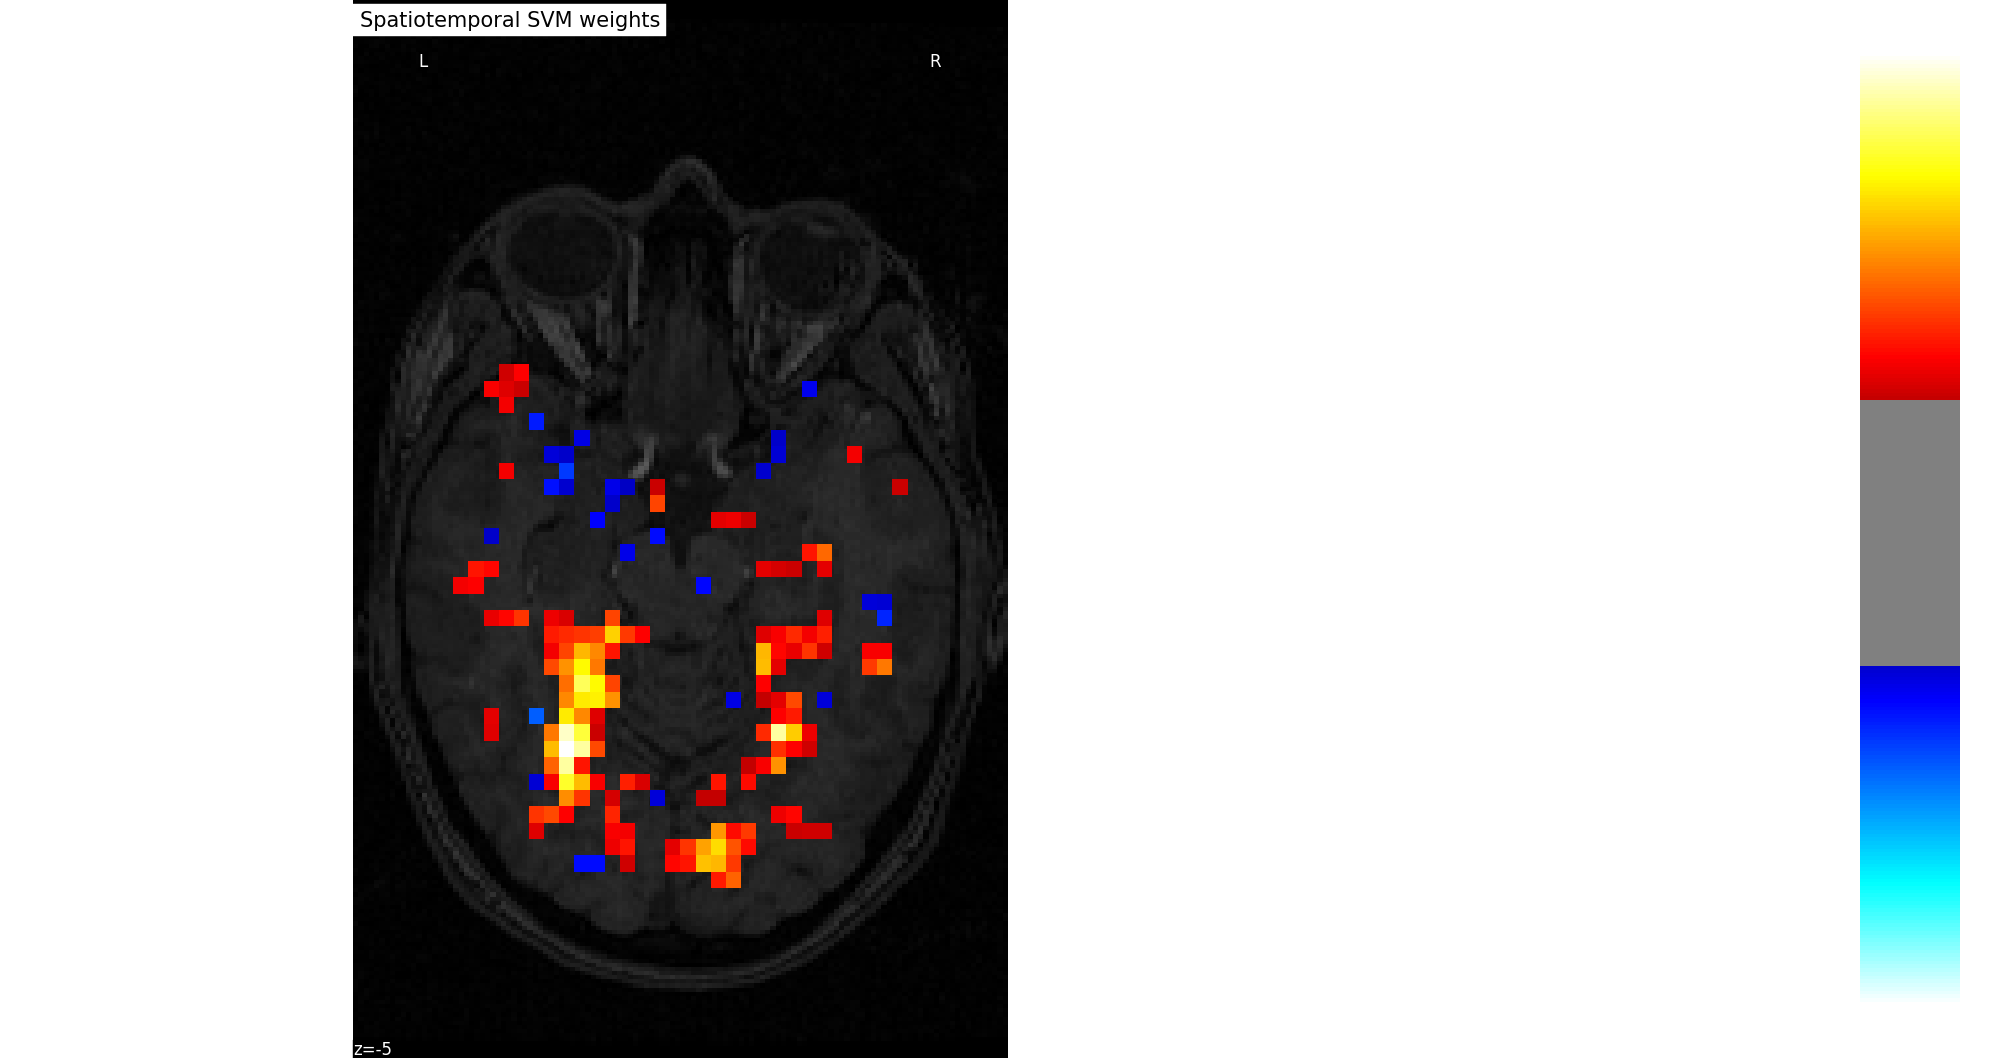
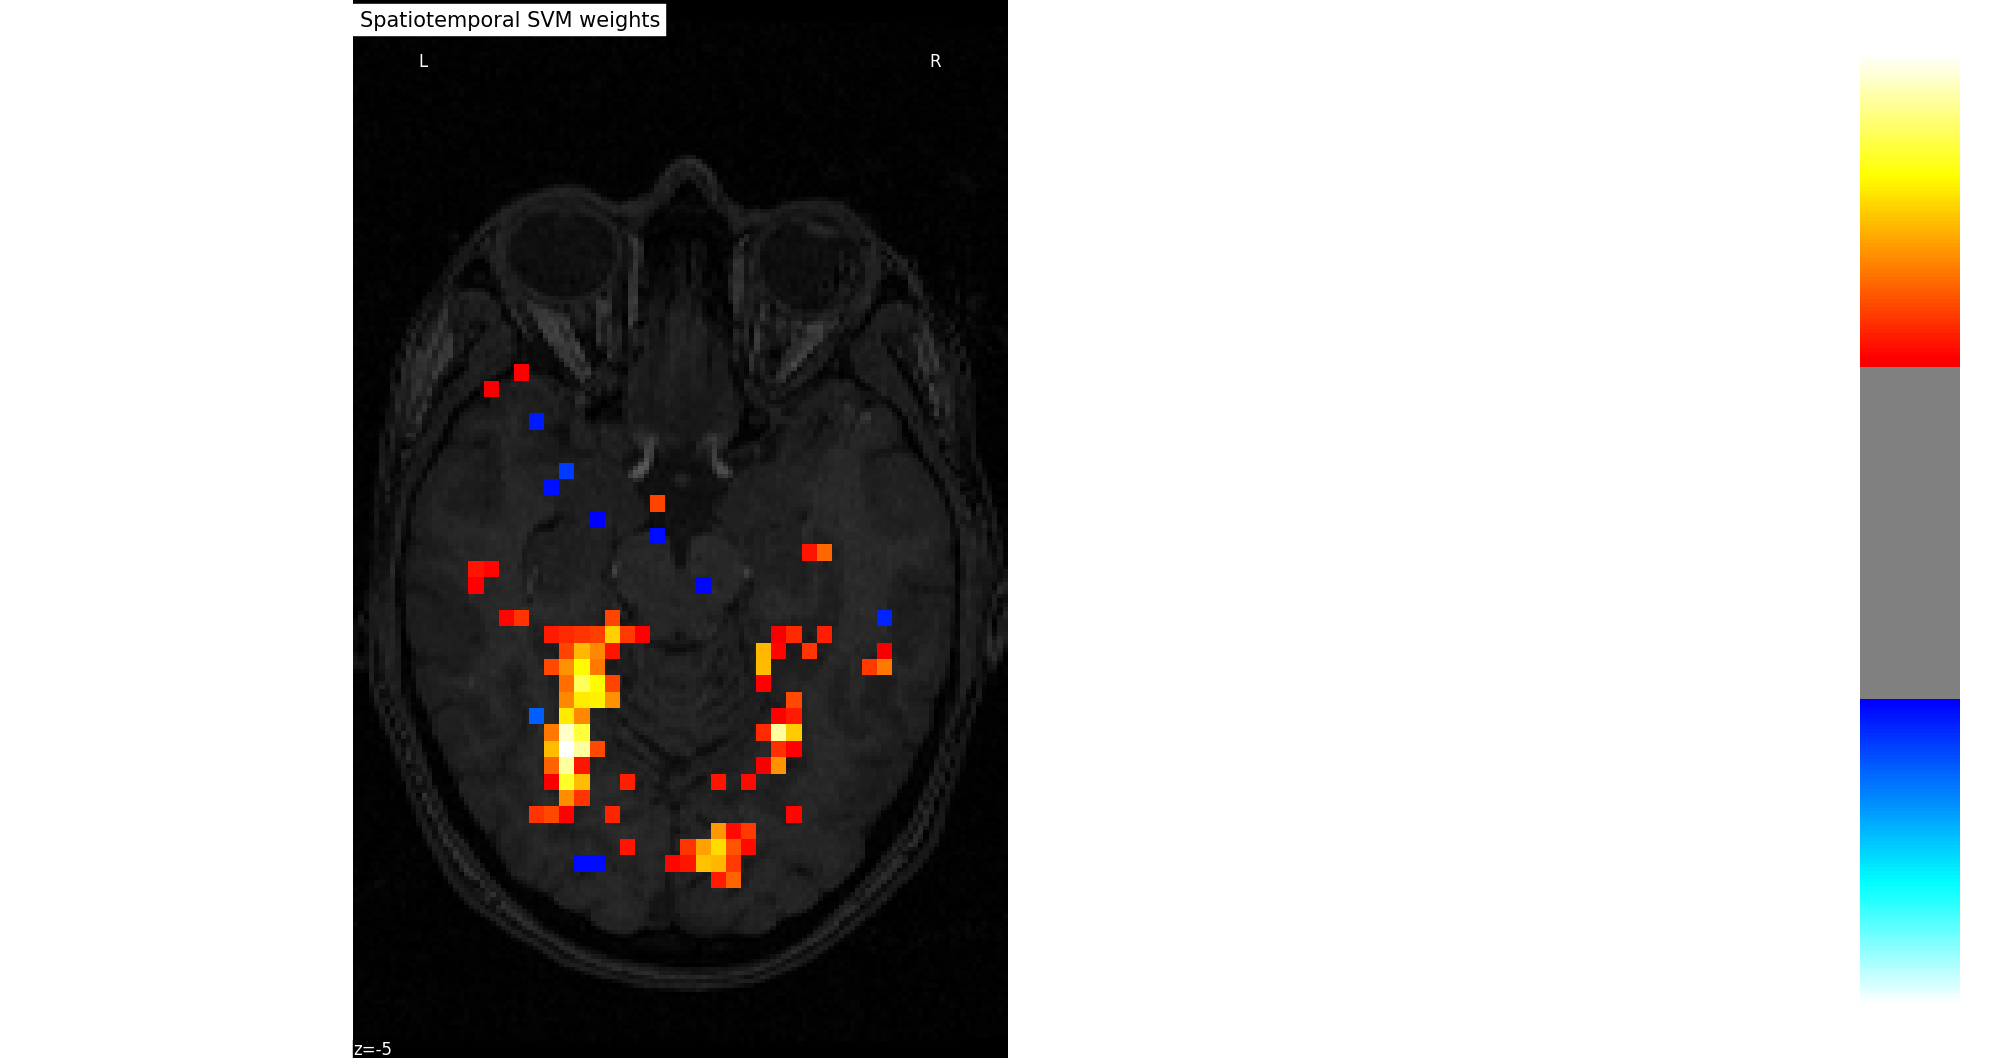
added 99th percentile threshold

diff --git a/scripts/activation_maps_haxby_stsvm.py b/scripts/activation_maps_haxby_stsvm.py
@@ -49,9 +49,9 @@ svc = SVC(kernel='linear')
 svc.fit(fmri_windows_train, conditions_train)
 svc_coef = svc.coef_[0]  # 'face' vs. 'house'
 # svc_coef = anova.inverse_transform(svc_coef)
-coef_img = masker.inverse_transform(svc_coef.reshape(10, -1)[3])
+coef_img = masker.inverse_transform(svc_coef.reshape(10, -1)[1])
 coef_map = coef_img.get_data()
-threshold = np.percentile(np.abs(coef_map), 98)
+threshold = np.percentile(np.abs(coef_map), 99)
 plot_stat_map(coef_img, bg_img=haxby_dataset.anat[0],
               display_mode='z',cut_coords=[-5],
               title=model+" weights", threshold=threshold)

diff --git a/scripts/activation_maps_haxby_glm.py b/scripts/activation_maps_haxby_glm.py
@@ -8,7 +8,7 @@ haxby_dataset = datasets.fetch_haxby()
 
 # Parameters
 tr = 2.5
-model = 'GLMs'
+model = 'GLM'
 k = 10000
 
 # GLM parameters
@@ -47,7 +47,7 @@ betas_test = anova.inverse_transform(betas_test[0])
 """
 coef_img = masker.inverse_transform(betas_test[0] - betas_test[1])
 coef_map = coef_img.get_data()
-threshold = np.percentile(np.abs(coef_map), 98)
+threshold = np.percentile(np.abs(coef_map), 99)
 plot_stat_map(coef_img, bg_img=haxby_dataset.anat[0],
               display_mode='z', cut_coords=[-5],
               title=model+" weights", threshold=threshold)

diff --git a/scripts/activation_maps_haxby_log_model.py b/scripts/activation_maps_haxby_log_model.py
@@ -54,7 +54,7 @@ prediction = ridge.predict(fmri_test)
 ridge_coef = - ridge.coef_[1] + ridge.coef_[2]  # 'face' vs. 'house'
 coef_img = masker.inverse_transform(ridge_coef)
 coef_map = coef_img.get_data()
-threshold = np.percentile(np.abs(coef_map), 98)
+threshold = np.percentile(np.abs(coef_map), 99)
 
 # Plot stat map
 plot_stat_map(coef_img, bg_img=haxby_dataset.anat[0],
